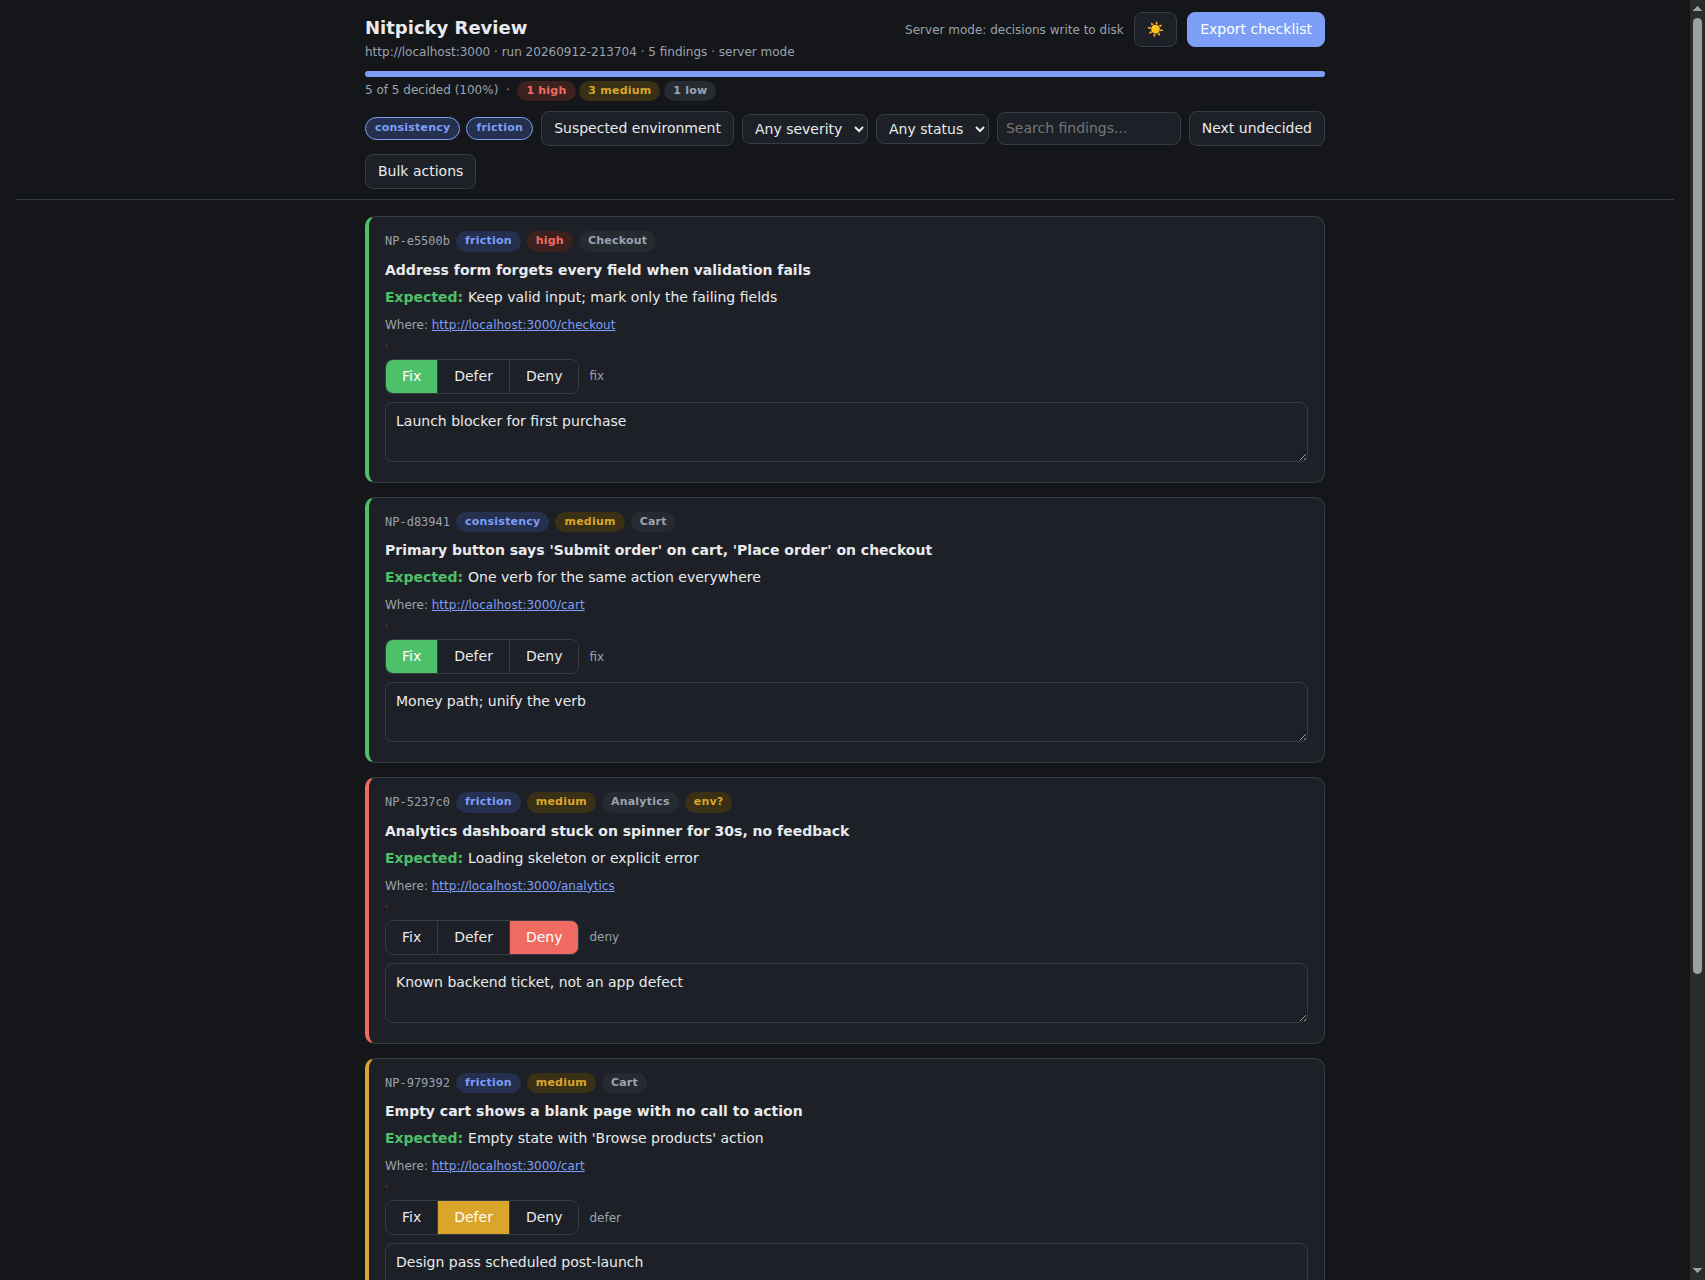
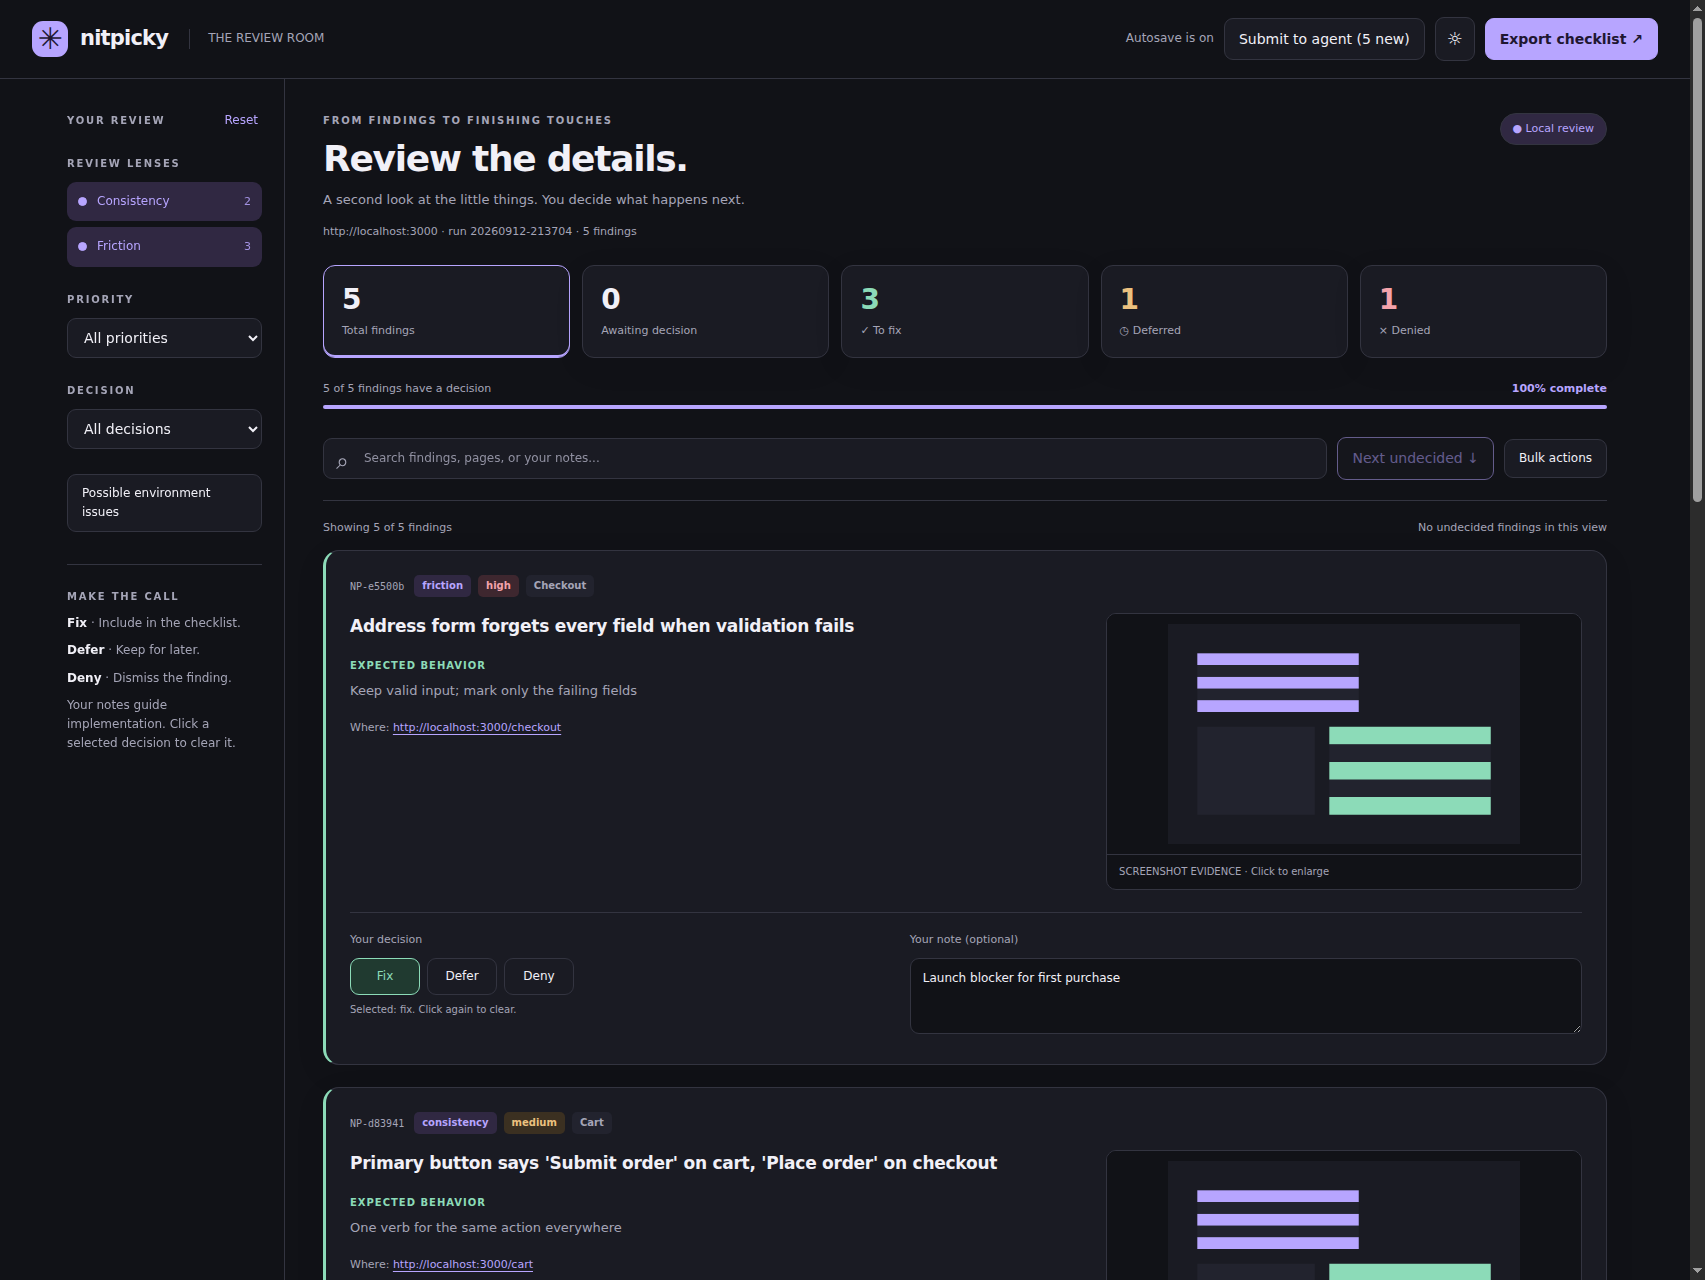
docs: refresh README screenshot — current portal build with evidence thumbnails

diff --git a/examples/demo-run/review.html b/examples/demo-run/review.html
@@ -114,6 +114,7 @@
   .chip.sev-medium { background: var(--defer-soft); color: var(--medium); }
   .chip.lens { background: var(--accent-soft); color: var(--accent); }
   .chip.env { background: var(--defer-soft); color: var(--defer); }
+  .chip.mem { background: var(--surface-2); color: var(--text-dim); border: 1px dashed var(--line); }
   .card-body { display: grid; grid-template-columns: minmax(0, 1fr) minmax(220px, .65fr); gap: 24px; align-items: start; }
   .what { margin: 0 0 18px; font-size: 17px; font-weight: 600; line-height: 1.55; letter-spacing: -.25px; overflow-wrap: anywhere; }
   .expected { font-size: 13px; margin: 0 0 18px; color: var(--text-dim); overflow-wrap: anywhere; }
@@ -202,6 +203,7 @@
     <div class="head-actions">
       <span id="save-status" role="status" aria-live="polite"></span>
       <button id="btn-retry" hidden>Retry save</button>
+      <button id="btn-submit" hidden title="Hand new or changed decisions to the agent session watching this run">Submit to agent</button>
       <button id="btn-theme" aria-label="Switch to light theme"></button>
       <button id="btn-export" class="primary">Export checklist ↗</button>
     </div>
@@ -215,6 +217,7 @@
       <div class="filter-group"><label class="eyebrow" for="f-severity">Priority</label><select id="f-severity"><option value="any">All priorities</option><option value="high">High priority</option><option value="medium">Medium priority</option><option value="low">Low priority</option></select></div>
       <div class="filter-group"><label class="eyebrow" for="f-status">Decision</label><select id="f-status"><option value="any">All decisions</option><option value="undecided">Awaiting decision</option><option value="fix">Fix</option><option value="defer">Defer</option><option value="deny">Deny</option></select></div>
       <div class="filter-group"><button id="f-env" aria-pressed="false" title="Show findings that may be caused by the environment">Possible environment issues</button></div>
+      <div class="filter-group"><button id="f-prior" aria-pressed="false" title="Findings decided in an earlier run are hidden unless this is on">Previously decided</button></div>
     </div>
     <div class="sidebar-help"><span class="eyebrow">Make the call</span><p><b>Fix</b> · Include in the checklist.</p><p><b>Defer</b> · Keep for later.</p><p><b>Deny</b> · Dismiss the finding.</p><p>Your notes guide implementation. Click a selected decision to clear it.</p></div>
   </aside>
@@ -265,7 +268,7 @@
   </div>
 </div>
 
-<script type="application/json" id="nitpicky-payload">{"run_id": "20260912-213704", "app_url": "http://localhost:3000", "generated": "2026-09-13T04:56:16+00:00", "counts": {"total": 5, "by_lens": {"consistency": 2, "friction": 3}}, "env_summary": {"suspected_env_findings": 1}, "clusters": {}, "coverage": {"expected": [], "covered": ["/cart", "/checkout"], "blocked": [], "skipped": [{"path": "/settings", "note": "requires admin login", "lens": "consistency"}], "uncovered_expected": []}, "findings": [{"id": "NP-d83941", "lens": "consistency", "what": "Primary button says 'Submit order' on cart, 'Place order' on checkout", "expected": "One verb for the same action everywhere", "url": "http://localhost:3000/cart", "severity": "medium", "area": "Cart", "steps": "", "screenshot": "screenshots/consistency-order-verb.png", "proof_ok": true, "suspected_env_cause": false, "evidence_flag": "duplicate-image"}, {"id": "NP-d14e24", "lens": "consistency", "what": "Settings page title is 'Admin Panel', everywhere else uses 'Settings'", "expected": "One term per concept", "url": "http://localhost:3000/settings", "severity": "low", "area": "Settings", "steps": "", "screenshot": "screenshots/consistency-settings-title.png", "proof_ok": true, "suspected_env_cause": false, "evidence_flag": "duplicate-image"}, {"id": "NP-e5500b", "lens": "friction", "what": "Address form forgets every field when validation fails", "expected": "Keep valid input; mark only the failing fields", "url": "http://localhost:3000/checkout", "severity": "high", "area": "Checkout", "steps": "", "screenshot": "screenshots/friction-address-form.png", "proof_ok": true, "suspected_env_cause": false, "evidence_flag": "duplicate-image"}, {"id": "NP-979392", "lens": "friction", "what": "Empty cart shows a blank page with no call to action", "expected": "Empty state with 'Browse products' action", "url": "http://localhost:3000/cart", "severity": "medium", "area": "Cart", "steps": "", "screenshot": "screenshots/friction-empty-cart.png", "proof_ok": true, "suspected_env_cause": false, "evidence_flag": "duplicate-image"}, {"id": "NP-5237c0", "lens": "friction", "what": "Analytics dashboard stuck on spinner for 30s, no feedback", "expected": "Loading skeleton or explicit error", "url": "http://localhost:3000/analytics", "severity": "medium", "area": "Analytics", "steps": "", "screenshot": "screenshots/friction-analytics-spinner.png", "proof_ok": true, "suspected_env_cause": true, "evidence_flag": "duplicate-image"}]}</script>
+<script type="application/json" id="nitpicky-payload">{"run_id": "20260912-213704", "app_url": "http://localhost:3000", "generated": "2026-09-14T14:22:33+00:00", "counts": {"total": 5, "by_lens": {"consistency": 2, "friction": 3}}, "env_summary": {"suspected_env_findings": 1}, "clusters": {}, "memory_summary": {"denied": 0, "deferred": 0, "fixed": 0}, "coverage": {"expected": [], "covered": ["/cart", "/checkout"], "blocked": [], "skipped": [{"path": "/settings", "note": "requires admin login", "lens": "consistency"}], "uncovered_expected": []}, "findings": [{"id": "NP-d83941", "lens": "consistency", "what": "Primary button says 'Submit order' on cart, 'Place order' on checkout", "expected": "One verb for the same action everywhere", "url": "http://localhost:3000/cart", "severity": "medium", "area": "Cart", "steps": "", "screenshot": "screenshots/consistency-order-verb.png", "proof_ok": true, "suspected_env_cause": false, "evidence_flag": "duplicate-image"}, {"id": "NP-d14e24", "lens": "consistency", "what": "Settings page title is 'Admin Panel', everywhere else uses 'Settings'", "expected": "One term per concept", "url": "http://localhost:3000/settings", "severity": "low", "area": "Settings", "steps": "", "screenshot": "screenshots/consistency-settings-title.png", "proof_ok": true, "suspected_env_cause": false, "evidence_flag": "duplicate-image"}, {"id": "NP-e5500b", "lens": "friction", "what": "Address form forgets every field when validation fails", "expected": "Keep valid input; mark only the failing fields", "url": "http://localhost:3000/checkout", "severity": "high", "area": "Checkout", "steps": "", "screenshot": "screenshots/friction-address-form.png", "proof_ok": true, "suspected_env_cause": false, "evidence_flag": "duplicate-image"}, {"id": "NP-979392", "lens": "friction", "what": "Empty cart shows a blank page with no call to action", "expected": "Empty state with 'Browse products' action", "url": "http://localhost:3000/cart", "severity": "medium", "area": "Cart", "steps": "", "screenshot": "screenshots/friction-empty-cart.png", "proof_ok": true, "suspected_env_cause": false, "evidence_flag": "duplicate-image"}, {"id": "NP-5237c0", "lens": "friction", "what": "Analytics dashboard stuck on spinner for 30s, no feedback", "expected": "Loading skeleton or explicit error", "url": "http://localhost:3000/analytics", "severity": "medium", "area": "Analytics", "steps": "", "screenshot": "screenshots/friction-analytics-spinner.png", "proof_ok": true, "suspected_env_cause": true, "evidence_flag": "duplicate-image"}]}</script>
 <script>
 (function () {
   "use strict";
@@ -331,11 +334,54 @@
       el.className = "";
       retry.hidden = true;
     }
+    if (SERVER_MODE) refreshSubmitStatus();
   }
 
   document.getElementById("btn-retry").addEventListener("click", function () {
     saveFailed = false; lastError = null; updateStatus();
     Object.keys(drafts).forEach(function (id) { enqueuePost(id, drafts[id]); });
+  });
+
+  // ---------- submit to agent (server mode only) ----------
+  // The reviewing session arms lib/submit-watcher.sh on this run dir; each
+  // Submit emits an event with only new-or-changed decisions, and the
+  // watcher's notification wakes that session.
+  var submitBtn = document.getElementById("btn-submit");
+  var lastSubmitCheck = 0;
+  function refreshSubmitStatus() {
+    if (!SERVER_MODE) return;
+    var now = Date.now();
+    if (now - lastSubmitCheck < 3000) return;   // updateStatus fires often; throttle
+    lastSubmitCheck = now;
+    fetch("/api/submit/status").then(function (r) { return r.json(); }).then(function (j) {
+      if (!j || !j.pending) return;
+      submitBtn.hidden = false;
+      submitBtn.disabled = j.pending.length === 0;
+      submitBtn.textContent = j.pending.length
+        ? "Submit to agent (" + j.pending.length + " new)"
+        : "Submitted ✓";
+    }).catch(function () { /* server unreachable; Retry path covers saves */ });
+  }
+  submitBtn.addEventListener("click", function () {
+    submitBtn.disabled = true;
+    fetch("/api/submit", {
+      method: "POST",
+      headers: { "Content-Type": "application/json" },
+      body: "{}"
+    }).then(function (r) { return r.json(); }).then(function (j) {
+      var el = document.getElementById("save-status");
+      if (j.ok) {
+        el.textContent = "Submitted " + j.submitted.length + " new/changed to agent · "
+          + j.skipped + " unchanged skipped";
+        el.className = "ok";
+        refreshSubmitStatus();
+      } else {
+        submitBtn.disabled = false;
+      }
+    }).catch(function () {
+      submitBtn.disabled = false;
+      saveFailed = true; lastError = "server unreachable"; updateStatus();
+    });
   });
 
   // ---------- persistence ----------
@@ -478,6 +524,7 @@
     chip("sev-" + f.severity, f.severity);
     if (f.area) chip("", f.area);
     if (f.suspected_env_cause) chip("env", "env?");
+    if (f.memory) chip("mem", "previously " + (f.memory.decision === "deny" ? "denied" : f.memory.decision === "defer" ? "deferred" : "fixed"));
     card.appendChild(head);
 
     if (f.cluster_size > 1) {
@@ -664,12 +711,13 @@
   paintTheme();
 
   // ---------- filters ----------
-  var filters = { lenses: {}, severity: "any", status: "any", q: "", envOnly: false };
+  var filters = { lenses: {}, severity: "any", status: "any", q: "", envOnly: false, showPrior: false };
   findings.forEach(function (f) { filters.lenses[f.lens] = true; });
 
   function matches(f) {
     if (!filters.lenses[f.lens]) return false;
     if (filters.envOnly && !f.suspected_env_cause) return false;
+    if (!filters.showPrior && f.memory && f.memory.decision !== "fix") return false;
     if (filters.severity !== "any" && f.severity !== filters.severity) return false;
     var d = decisions[f.id] && decisions[f.id].decision;
     if (filters.status !== "any") {
@@ -726,6 +774,22 @@
     filters.envOnly = !filters.envOnly;
     envBtn.classList.toggle("on", filters.envOnly);
     envBtn.setAttribute("aria-pressed", String(filters.envOnly));
+    applyFilters();
+  });
+
+  var priorBtn = document.getElementById("f-prior");
+  var priorCount = findings.filter(function (f) {
+    return f.memory && (f.memory.decision === "deny" || f.memory.decision === "defer");
+  }).length;
+  if (priorCount) {
+    priorBtn.textContent = "Show " + priorCount + " previously decided";
+    priorBtn.setAttribute("aria-pressed", "false");
+  } else {
+    priorBtn.hidden = true;
+  }
+  priorBtn.addEventListener("click", function () {
+    filters.showPrior = !filters.showPrior;
+    priorBtn.setAttribute("aria-pressed", String(filters.showPrior));
     applyFilters();
   });
 
